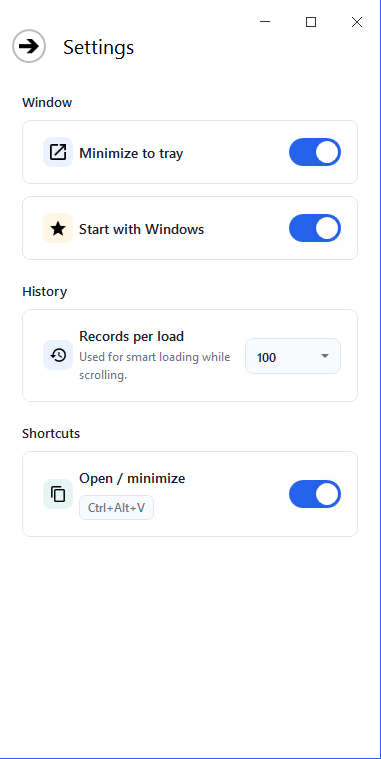
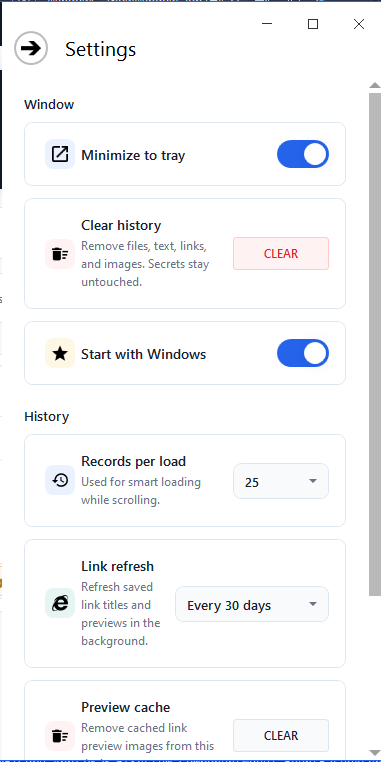
README update

diff --git a/README.md b/README.md
@@ -7,7 +7,7 @@
 
 ClipboardManager is a modern Windows clipboard history app built with WPF. It watches clipboard changes in real time, separates copied content into files, text, links, images, favorites, and protected secrets, then stores the data locally so useful snippets do not disappear after the next copy.
 
-The app is designed as a quiet productivity tool: fast search, one-click copy back to clipboard, pinned items, rich link cards, image preview with zoom and save-to-file, encrypted secrets, tray mode, a global hotkey, and JSON backup/import are all available from a clean MahApps.Metro interface.
+The app is designed as a quiet productivity tool: fast search, one-click copy back to clipboard, pinned items, rich cached link cards, image preview with zoom and save-to-file, encrypted secrets, tray mode, a global hotkey, and JSON backup/import are all available from a clean MahApps.Metro interface.
 
 ## Highlights
 
@@ -19,6 +19,9 @@ The app is designed as a quiet productivity tool: fast search, one-click copy ba
 - 30-second trusted copy window after successful secret verification.
 - Secret values auto-hide after 30 seconds and copied secrets are cleared from the clipboard after 45 seconds when still unchanged.
 - Smart URL cards with title, description, and Open Graph image when metadata is available.
+- Cached link preview images stored locally, so repeated app launches do not re-download every preview.
+- Background stale-link refresh with configurable intervals: never, every 7 days, or every 30 days.
+- Link refresh is capped per run and uses stale-while-revalidate behavior: old data appears immediately, newer metadata updates quietly in the background.
 - Image gallery with fullscreen-style preview, zoom controls, mouse-wheel zoom, and copy back to clipboard.
 - Save images from the gallery, favorites, or image preview as PNG, JPG, or BMP.
 - Global search across saved files, texts, links, images, secrets, and favorites.
@@ -30,7 +33,8 @@ The app is designed as a quiet productivity tool: fast search, one-click copy ba
 - Single-instance launch guard: opening the EXE again activates the existing window instead of starting another process.
 - Import and export through `.clipboard.json` backup files.
 - Duplicate protection for copied files, texts, URLs, and images.
-- Copy, open, delete, clear, import, export, and save-as-secret actions from the UI.
+- Copy, open, delete, import, export, and save-as-secret actions from the UI.
+- Settings panel for tray behavior, Windows startup, history batch size, link refresh interval, preview cache cleanup, clear history, and hotkey toggle.
 - Supports ENG/РУ languages.
 
 ## Screenshots
@@ -53,7 +57,7 @@ The app is designed as a quiet productivity tool: fast search, one-click copy ba
 | --- | --- |
 | UI | WPF, XAML, MahApps.Metro, MahApps.Metro.IconPacks |
 | Runtime | .NET 10, Windows 10 1903+ target |
-| Architecture | MVVM-style ViewModel, services, repository layer |
+| Architecture | MVVM, dependency injection, service interfaces, repository layer, extracted views/resources |
 | Storage | Entity Framework Core + SQLite |
 | Link previews | HtmlAgilityPack + `HttpClient` |
 | Clipboard access | WPF Clipboard API + native `WM_CLIPBOARDUPDATE` listener |
@@ -93,12 +97,14 @@ ClipboardManager\bin\Release\net10.0-windows10.0.18362.0\
 
 1. `ClipboardWatcher` subscribes the main window to Windows clipboard update events.
 2. `WpfClipboardService` reads the current clipboard snapshot and identifies whether it contains files, text, an image, or URLs inside copied text.
-3. `MainWindowViewModel` deduplicates new entries, updates the visible collections, loads history in batches, refreshes search/favorite views, manages secrets, and triggers persistence.
+3. `MainWindowViewModel` coordinates commands and visible state, while focused services handle capture, persistence, metadata, images, transfer, shell integration, and secret protection.
 4. `ClipboardRepository` stores the history and encrypted secrets in a local SQLite database and keeps the schema ready on startup.
 5. `DpapiSecretProtectionService` encrypts secret values for the current Windows user.
 6. `WindowsUserConsentService` asks Windows to verify the user before protected secret actions.
-7. `ClipboardTransferService` exports/imports non-secret history as readable JSON backup files.
-8. `MainWindow` owns shell-level behavior such as tray mode, minimize-to-tray, single-instance activation, Windows startup registration, and the global open/minimize hotkey.
+7. `LinkMetadataRefreshService` refreshes stale saved link metadata in small background batches.
+8. `LinkPreviewImageService` loads preview images through a local cache before attempting network downloads.
+9. `ClipboardTransferService` exports/imports non-secret history as readable JSON backup files.
+10. `MainWindow` owns shell-level behavior such as tray mode, minimize-to-tray, single-instance activation, Windows startup registration, and the global open/minimize hotkey.
 
 ## Project Structure
 
@@ -106,13 +112,15 @@ ClipboardManager\bin\Release\net10.0-windows10.0.18362.0\
 ClipboardManager/
 ├── Data/                 SQLite DbContext and repository
 ├── Helper/               MVVM helpers, clipboard watcher, WPF behaviors
+├── Interfaces/           Service and repository contracts
 ├── Localization/         English/Russian UI resources and app settings storage
 ├── Models/               Clipboard item models
-├── Resources/Images/     App image assets
-├── Services/             Clipboard, shell, metadata, import/export services
-├── ViewModel/            Main application state and commands
+├── Resources/            XAML resources, localized strings, image assets
+├── Services/             Clipboard, shell, metadata, cache, import/export services
+├── ViewModel/            Main application state, commands, partial feature areas
+├── Views/                Extracted WPF views for header, settings, image preview
 ├── App.xaml              Application resources
-├── MainWindow.xaml       Main UI layout and styles
+├── MainWindow.xaml       Main UI shell
 └── ClipboardManager.csproj
 ```
 
@@ -120,13 +128,13 @@ ClipboardManager/
 
 ClipboardManager stores clipboard history locally on your machine. It does not use cloud sync.
 
-Regular history is stored in SQLite under `%LOCALAPPDATA%\ClipboardManager`. App preferences are stored in `%APPDATA%\ClipboardManager\settings.json`. The Windows startup setting is applied per-user through `HKCU\Software\Microsoft\Windows\CurrentVersion\Run`.
+Regular history is stored in SQLite under `%LOCALAPPDATA%\ClipboardManager`. Link preview images are cached under `%LOCALAPPDATA%\ClipboardManager\Cache\LinkPreviews`. App preferences are stored in `%APPDATA%\ClipboardManager\settings.json`. The Windows startup setting is applied per-user through `HKCU\Software\Microsoft\Windows\CurrentVersion\Run`.
 
 Secrets are stored in the same local database, but the secret value is encrypted with Windows DPAPI and scoped to the current Windows user. The UI shows secrets masked by default, asks Windows to verify the user before reveal/copy, auto-hides revealed values, and clears copied secrets from the clipboard after a short delay when possible.
 
 Exports intentionally do not include secrets. The "clear history" action clears regular clipboard history but keeps secrets separate; delete a secret directly when it should be removed.
 
-Because clipboard history can include sensitive data, review saved entries regularly and use the clear/delete actions when needed. URL previews may request metadata from copied web pages in order to display titles, descriptions, and preview images.
+Because clipboard history can include sensitive data, review saved entries regularly and use the clear/delete actions when needed. URL previews may request metadata from copied web pages in order to display titles, descriptions, and preview images. Existing link cards are shown from local data first; background refresh only checks stale records according to the configured interval.
 
 ## Backup Format
 
@@ -136,7 +144,7 @@ Exports are saved as `.clipboard.json` files with:
 - file paths and names;
 - text snippets;
 - image bytes;
-- URL metadata;
+- URL metadata and metadata refresh timestamp;
 - pinned/favorite state.
 
 Secrets are excluded from backup files by design.